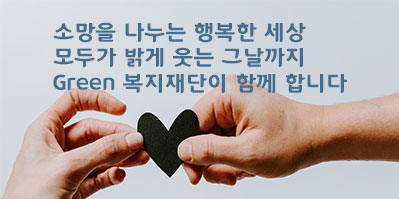
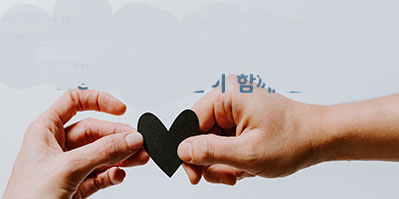
green복지

Changed region(s): [[0.1203, 0.2412, 0.8722, 0.4824], [0.1203, 0.0905, 0.782, 0.2111], [0.1203, 0.3618, 0.5714, 0.4824]]

diff --git a/그린복지재단/index.html b/그린복지재단/index.html
@@ -22,7 +22,7 @@
 
     <header>
         <div class="inner">
-            <h1><a href="#"><img src="/images/LOGO.png" alt="그린복지재단 로고"></a></h1>
+            <h1><a href="#"><img src="images/LOGO.png" alt="그린복지재단 로고"></a></h1>
             <div class="wrap">
                 <div class="wrapBg"></div>
                 <ul class="gnb">
@@ -69,9 +69,9 @@
 
     <section id="slide">
         <ul class="inner">
-            <li><img src="/images/slide1.jpg" alt="나에게 힘이 되는 복지 서비스"></li>
-            <li><img src="/images/slide2.jpg" alt="사랑 봉사 함께하는 세상"></li>
-            <li><img src="/images/slide3.jpg" alt="더불어 사는 세상"></li>
+            <li><img src="images/slide1.jpg" alt="나에게 힘이 되는 복지 서비스"></li>
+            <li><img src="images/slide2.jpg" alt="사랑 봉사 함께하는 세상"></li>
+            <li><img src="images/slide3.jpg" alt="더불어 사는 세상"></li>
         </ul>
     </section>
 
@@ -86,20 +86,23 @@
             </div>
 
             <div class="galley">
-                <a href="#"><img src="/images/gal1.jpg" alt="할머니와 할아버지"></a>
-                <a href="#"><img src="/images/gal2.jpg" alt="어린 소녀"></a>
-                <a href="#"><img src="/images/gal3.jpg" alt="휠체어"></a>
+                <a href="#"><img src="images/gal1.jpg" alt="할머니와 할아버지"></a>
+                <a href="#"><img src="images/gal2.jpg" alt="어린 소녀"></a>
+                <a href="#"><img src="images/gal3.jpg" alt="휠체어"></a>
             </div>
 
             <div class="banner">
-                <a href="#"><img src="/images/banner.jpg" alt="소망을 나누는 행복한 세상"></a>
+                <a href="#"><img src="images/banner.jpg" alt="소망을 나누는 행복한 세상"></a>
+                <p>소망을 나누는 행복한 세상<br>
+                    모두가 밝게 웃는 그날까지<br>
+                     Green 복지재단이 함께 합니다</p>
             </div>
         </div>
     </section>
 
     <footer>
         <div class="inner">
-            <h1><a href="#"><img src="/images/footerlogo.png" alt="그린복지재단 푸터 로고"></a></h1>
+            <h1><a href="#"><img src="images/footerlogo.png" alt="그린복지재단 푸터 로고"></a></h1>
             <div class="copy"><span><a href="#">COPYRIGHTⓒ by WEBDESIGN. ALL RIGHTS RESERVED</a></span></div>
             <div class="family">
                 <select name="family_site" id="family_site">

diff --git a/그린복지재단/style.css b/그린복지재단/style.css
@@ -181,6 +181,24 @@ header .inner .wrap .gnb{
 }
 #content>.inner .banner{
     flex: 1;
+    position: relative;
+    overflow: hidden;
+}
+#content>.inner .banner a{
+    position: absolute;
+}
+#content>.inner .banner p{
+    position: absolute;
+    background-color: #c0bfbf;
+    border-radius: 10px;
+    height: 90px;
+    text-align: center;
+    font: bold 20px/30px '애플 고딕';
+    color: #111a68;
+    width: 300px;
+    top: 30%;
+    left: 50%;
+    transform: translate(-50%,-50%);
 }
 
 footer{
